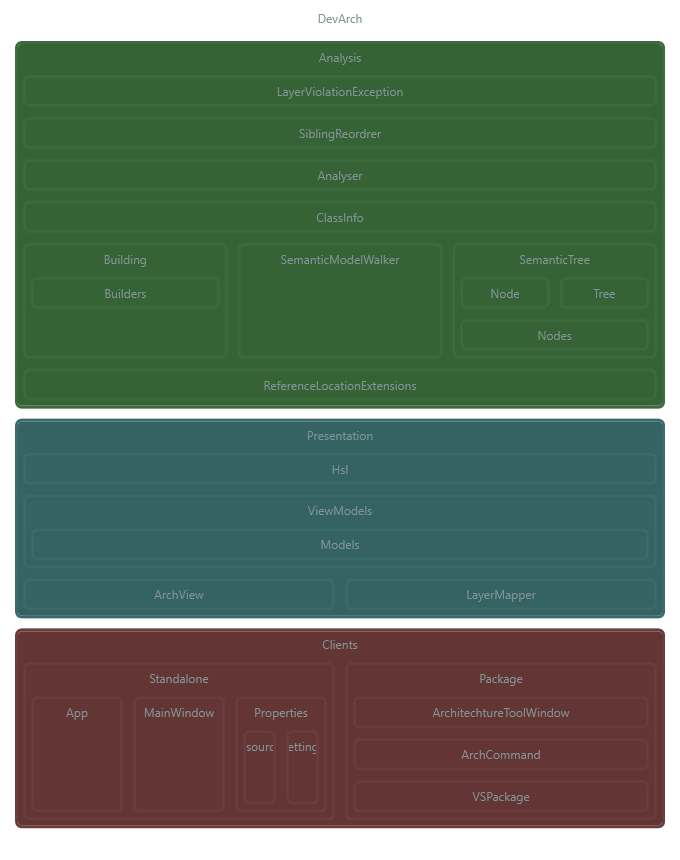
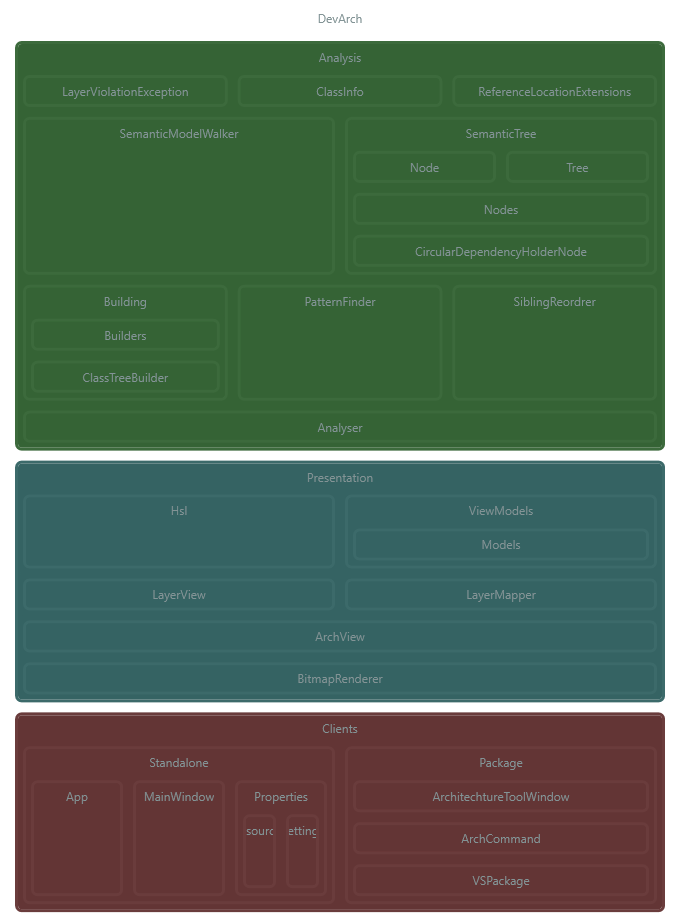
Independent layers are now correctly split horizontaly

diff --git a/Analysis/SiblingReordrer.cs b/Analysis/SiblingReordrer.cs
@@ -28,48 +28,30 @@ namespace Analysis
             var newChildOrder = new List<Node>();
             if (nodesWithoutDependency.Count == 0)
                 throw new LayerViolationException();
-            foreach (var node in nodesWithoutDependency)
-            {
-                RegroupSiblingNodes(node, oldChildList, ref newChildOrder);
-            }
+                RegroupSiblingNodes(new List<Node>(), oldChildList, ref newChildOrder);
             return newChildOrder;
         }
 
-        public static void FindCircularReferences(ref List<Node> childList)
+        public static void RegroupSiblingNodes(List<Node> nodesWithoutDependency, List<Node> oldChildList, ref List<Node> newChildOrder)
         {
-            var circularRefs = new List<Tuple<Node, Node>>();
-            foreach (var node in childList)
+            while (oldChildList.Any())
             {
-                foreach (var node2 in from node2 in childList.Where(n => n != node)
-                    where node.SiblingDependencies.Contains(node2)
-                    where node2.SiblingDependencies.Contains(node)
-                    where circularRefs.All(x => x.Item1 != node2)
-                    select node2)
+                foreach (var node1 in nodesWithoutDependency)
                 {
-                    circularRefs.Add(new Tuple<Node, Node>(node, node2));
+                    foreach (var node in oldChildList)
+                    {
+                        node.SiblingDependencies.Remove(node1);
+                    }
                 }
-            }
-
-            foreach (var circularRef in circularRefs)
-            {
-                var circularDependencyHolderNode = new CircularDependencyHolderNode(new List<Node> { circularRef.Item1, circularRef.Item2});
-                circularDependencyHolderNode.SiblingDependencies.AddRange(
-                    circularRef.Item1.SiblingDependencies.Concat(circularRef.Item2.SiblingDependencies));
-                childList.Add(circularDependencyHolderNode);
-                circularDependencyHolderNode.SiblingDependencies.Remove(circularRef.Item1);
-                circularDependencyHolderNode.SiblingDependencies.Remove(circularRef.Item2);
-                childList.Remove(circularRef.Item1);
-                childList.Remove(circularRef.Item2);
-                foreach (var node3 in childList.Where(n => n != circularDependencyHolderNode))
+                nodesWithoutDependency = oldChildList.Where(x => !x.SiblingDependencies.Any()).ToList();
+                if(!nodesWithoutDependency.Any())
+                    throw new LayerViolationException();
+                newChildOrder.Add(nodesWithoutDependency.Count == 1
+                    ? nodesWithoutDependency.First()
+                    : new SiblingHolderNode(nodesWithoutDependency));
+                foreach (var node in nodesWithoutDependency)
                 {
-                    var containedNode1 = node3.SiblingDependencies.Contains(circularRef.Item1);
-                    var containedNode2 = node3.SiblingDependencies.Contains(circularRef.Item2);
-                    if (containedNode1 || containedNode2)
-                        node3.SiblingDependencies.Add(circularDependencyHolderNode);
-                    if (containedNode1)
-                        node3.SiblingDependencies.Remove(circularRef.Item1);
-                    if (containedNode2)
-                        node3.SiblingDependencies.Remove(circularRef.Item2);
+                    oldChildList.Remove(node);
                 }
             }
         }
@@ -103,6 +85,45 @@ namespace Analysis
                         if (!dependantOfNodes.Any())
                             node = null;
                     }
+                }
+            }
+        }
+
+        public static void FindCircularReferences(ref List<Node> childList)
+        {
+            var circularRefs = new List<Tuple<Node, Node>>();
+            foreach (var node in childList)
+            {
+                foreach (var node2 in from node2 in childList.Where(n => n != node)
+                    where node.SiblingDependencies.Contains(node2)
+                    where node2.SiblingDependencies.Contains(node)
+                    where circularRefs.All(x => x.Item1 != node2)
+                    select node2)
+                {
+                    circularRefs.Add(new Tuple<Node, Node>(node, node2));
+                }
+            }
+
+            foreach (var circularRef in circularRefs)
+            {
+                var circularDependencyHolderNode = new CircularDependencyHolderNode(new List<Node> { circularRef.Item1, circularRef.Item2});
+                circularDependencyHolderNode.SiblingDependencies.UnionWith(
+                    circularRef.Item1.SiblingDependencies.Union(circularRef.Item2.SiblingDependencies));
+                childList.Add(circularDependencyHolderNode);
+                circularDependencyHolderNode.SiblingDependencies.Remove(circularRef.Item1);
+                circularDependencyHolderNode.SiblingDependencies.Remove(circularRef.Item2);
+                childList.Remove(circularRef.Item1);
+                childList.Remove(circularRef.Item2);
+                foreach (var node3 in childList.Where(n => n != circularDependencyHolderNode))
+                {
+                    var containedNode1 = node3.SiblingDependencies.Contains(circularRef.Item1);
+                    var containedNode2 = node3.SiblingDependencies.Contains(circularRef.Item2);
+                    if (containedNode1 || containedNode2)
+                        node3.SiblingDependencies.Add(circularDependencyHolderNode);
+                    if (containedNode1)
+                        node3.SiblingDependencies.Remove(circularRef.Item1);
+                    if (containedNode2)
+                        node3.SiblingDependencies.Remove(circularRef.Item2);
                 }
             }
         }

diff --git a/Analysis.Tests/SiblingOrderTests.cs b/Analysis.Tests/SiblingOrderTests.cs
@@ -55,10 +55,57 @@ namespace Analysis.Tests
 
             var newSiblings = SiblingReordrer.OrderChildsBySiblingsDependencies(new List<Node> {a, b, c});
 
-            var anonymousLayer = newSiblings.OfType<SiblingHolderNode>().FirstOrDefault();
+            var anonymousLayer = newSiblings.OfType<SiblingHolderNode>().LastOrDefault();
             Assert.IsNotNull(anonymousLayer);
             CollectionAssert.Contains(anonymousLayer.Childs.ToArray(),b);
             CollectionAssert.Contains(anonymousLayer.Childs.ToArray(), c);
+        }
+
+        /*[TestCategory("SiblingOrder")]
+        [TestMethod]
+        public void DiscoversAnonymousVerticalLayers()
+        {
+            var a = new Node("A");
+            var b = new Node("B");
+            
+            var one = new Node("1");
+            var two = new Node("2");
+
+            b.SiblingDependencies.Add(a);
+            
+            two.SiblingDependencies.Add(one);
+            
+            var newSiblings = SiblingReordrer.OrderChildsBySiblingsDependencies(new List<Node> { a, b,one,two});
+
+            var anonymousHorizontalLayer = newSiblings.FirstOrDefault();
+            Assert.IsNotNull(anonymousHorizontalLayer);
+            Assert.AreEqual(typeof(SiblingHolderNode),anonymousHorizontalLayer.GetType());
+            Assert.IsTrue(anonymousHorizontalLayer.Childs.First() is VerticalSiblingHolderNode);
+            Assert.IsTrue(anonymousHorizontalLayer.Childs.Last() is VerticalSiblingHolderNode);
+        }*/
+
+
+        [TestCategory("SiblingOrder")]
+        [TestMethod]
+        public void PutsIndependentNodesOnTop()
+        {
+            var a = new Node("A");
+            var b = new Node("B");
+            
+            var one = new Node("1");
+            var two = new Node("2");
+
+
+            one.SiblingDependencies.Add(a);
+            two.SiblingDependencies.Add(b);
+
+            var newSiblings = SiblingReordrer.OrderChildsBySiblingsDependencies(new List<Node> { a, b, one, two });
+
+            var anonymousHorizontalLayer = newSiblings.FirstOrDefault();
+            Assert.IsNotNull(anonymousHorizontalLayer);
+            Assert.AreEqual(typeof(SiblingHolderNode), anonymousHorizontalLayer.GetType());
+            Assert.AreEqual(anonymousHorizontalLayer.Childs.First(),a);
+            Assert.AreEqual(anonymousHorizontalLayer.Childs.Last(), b);
         }
 
         [TestCategory("SiblingOrder")]
@@ -92,7 +139,7 @@ namespace Analysis.Tests
             b.SiblingDependencies.Add(a);
 
             var newList = new List<Node>();
-            SiblingReordrer.RegroupSiblingNodes(a,new List<Node> { c,b,a},ref newList);
+            SiblingReordrer.RegroupSiblingNodes(new List<Node>(), new List<Node> { c,b,a},ref newList);
             Assert.IsTrue(newList.SequenceEqual(new List<Node> {a,b,c}));
         }
 

diff --git a/Analysis/Analyser.cs b/Analysis/Analyser.cs
@@ -29,8 +29,8 @@ namespace Analysis
             ClassTreeBuilder.AddClassesToTree(solution, tree);
             tree = SemanticTreeBuilder.BuildDependenciesFromReferences(tree);
             tree = RemoveTests(tree);
-            tree = RemoveSinglePaths(tree);
             tree.UpdateChildren(tree.Childs.Select(FindSiblingDependencies).ToList());
+            tree = RemoveSinglePaths(tree);
             tree.UpdateChildren(SiblingReordrer.OrderChildsBySiblingsDependencies(tree.Childs).ToList());
             tree = FindSiblingPatterns(tree);
         }
@@ -100,7 +100,24 @@ namespace Analysis
         public static Tree RemoveSinglePaths(Tree tree)
         {
             tree.UpdateChildren(tree.Childs.Select(RemoveSinglePaths).Cast<Node>().ToList());
-            return tree.Childs.Count == 1 ? tree.Childs.First() : tree;
+            if (tree.Childs.Count == 1)
+            {
+                var node = tree as Node;
+                var newTree = tree.Childs.First();
+                if (node != null)
+                {
+                    newTree.SiblingDependencies.UnionWith(node.SiblingDependencies);
+                    var dependsOnNode = node.Parent.Childs.Where(x => x.SiblingDependencies.Contains(tree));
+                    foreach (var dependant in dependsOnNode)
+                    {
+                        dependant.SiblingDependencies.Remove(node);
+                        dependant.SiblingDependencies.Add(newTree);
+                    }
+                }
+                return newTree;
+            }
+            return tree;
+            
         }
 
         private static string GetSolutionName(_DTE dte2)

diff --git a/Analysis/SemanticTree/Tree.cs b/Analysis/SemanticTree/Tree.cs
@@ -9,7 +9,7 @@ namespace Analysis.SemanticTree
 {
     public class Tree : ITreeViewModel
     {
-        private List<Node> ChildsList { get; } = new List<Node>();
+        public List<Node> ChildsList { get; } = new List<Node>();
         public IReadOnlyList<Node> Childs => ChildsList;
         IEnumerable<INodeViewModel> ITreeViewModel.Childs => ChildsList;
         public bool Horizontal { get; set; }
@@ -84,6 +84,16 @@ namespace Analysis.SemanticTree
             Horizontal = true;
         }
     }
+
+    public class VerticalSiblingHolderNode : Node
+    {
+        public VerticalSiblingHolderNode(IEnumerable<Node> siblingNodes) : base("")
+        {
+            UpdateChildren(siblingNodes);
+            Horizontal = false;
+        }
+    }
+
 
     public class CircularDependencyHolderNode : SiblingHolderNode
     {

diff --git a/Analysis/Building/SemanticTreeBuilder.cs b/Analysis/Building/SemanticTreeBuilder.cs
@@ -50,7 +50,9 @@ namespace Analysis.Building
             var classInfo = classList.FirstOrDefault(x => Equals(x.Symbol, symbol));
             node = classInfo != null ? new Node(classInfo) : new Node(symbol);
             all.Add(node);
-            if (symbol.ContainingSymbol is INamespaceOrTypeSymbol)
+            if (symbol.ContainingSymbol is INamespaceSymbol 
+                && !((INamespaceSymbol) symbol.ContainingSymbol).IsGlobalNamespace 
+                || symbol.ContainingSymbol is INamedTypeSymbol)
             {
                 var parent = FindParent(ref all, classList, symbol.ContainingSymbol);
                 parent.AddChild(node);

diff --git a/Analysis/SemanticTree/Node.cs b/Analysis/SemanticTree/Node.cs
@@ -26,7 +26,7 @@ namespace Analysis.SemanticTree
         public readonly ISymbol Symbol;
         public IEnumerable<ReferencedSymbol> References = new List<ReferencedSymbol>();
         public readonly List<Node> Dependencies = new List<Node>();
-        public readonly List<Node> SiblingDependencies = new List<Node>();
+        public readonly HashSet<Node> SiblingDependencies = new HashSet<Node>();
         public Tree Parent;
         public IEnumerable<TypeSyntax> BaseClasses = new List<TypeSyntax>();
 

diff --git a/Analysis.Tests/Presentation/PngGenerationTests.cs b/Analysis.Tests/Presentation/PngGenerationTests.cs
@@ -19,7 +19,7 @@ namespace Analysis.Tests.Presentation
             var path = currentDir.Parent?.Parent?.Parent?.FullName + @"\Current arch.png";
             if(File.Exists(path))
                 File.Delete(path);
-            BitmapRenderer.RenderArchToBitmap(enviroment, 680, 860, path);
+            BitmapRenderer.RenderArchToBitmap(enviroment, 680, 920, path);
             Assert.IsTrue(File.Exists(path));
         }
 
